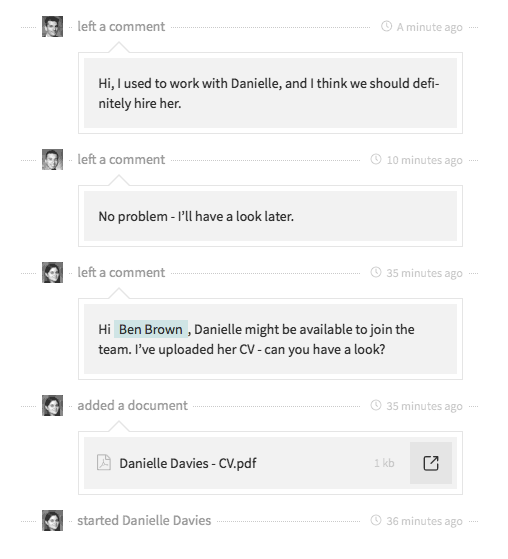
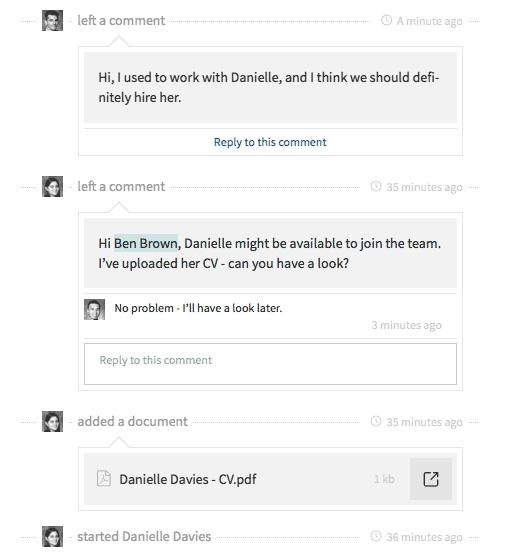
#89 Add replies to case event stream comments

diff --git a/docs/cases.rst b/docs/cases.rst
@@ -109,6 +109,7 @@ which results in a discussion in the event stream.
 
    Comments on a case - discussion with context
 
+In the event stream, reply to existing comments to keep the discussion structured.
 Hover over the user avatar to see the user’s full name:
 
 .. figure:: /_static/images/cases/comments/user.png
